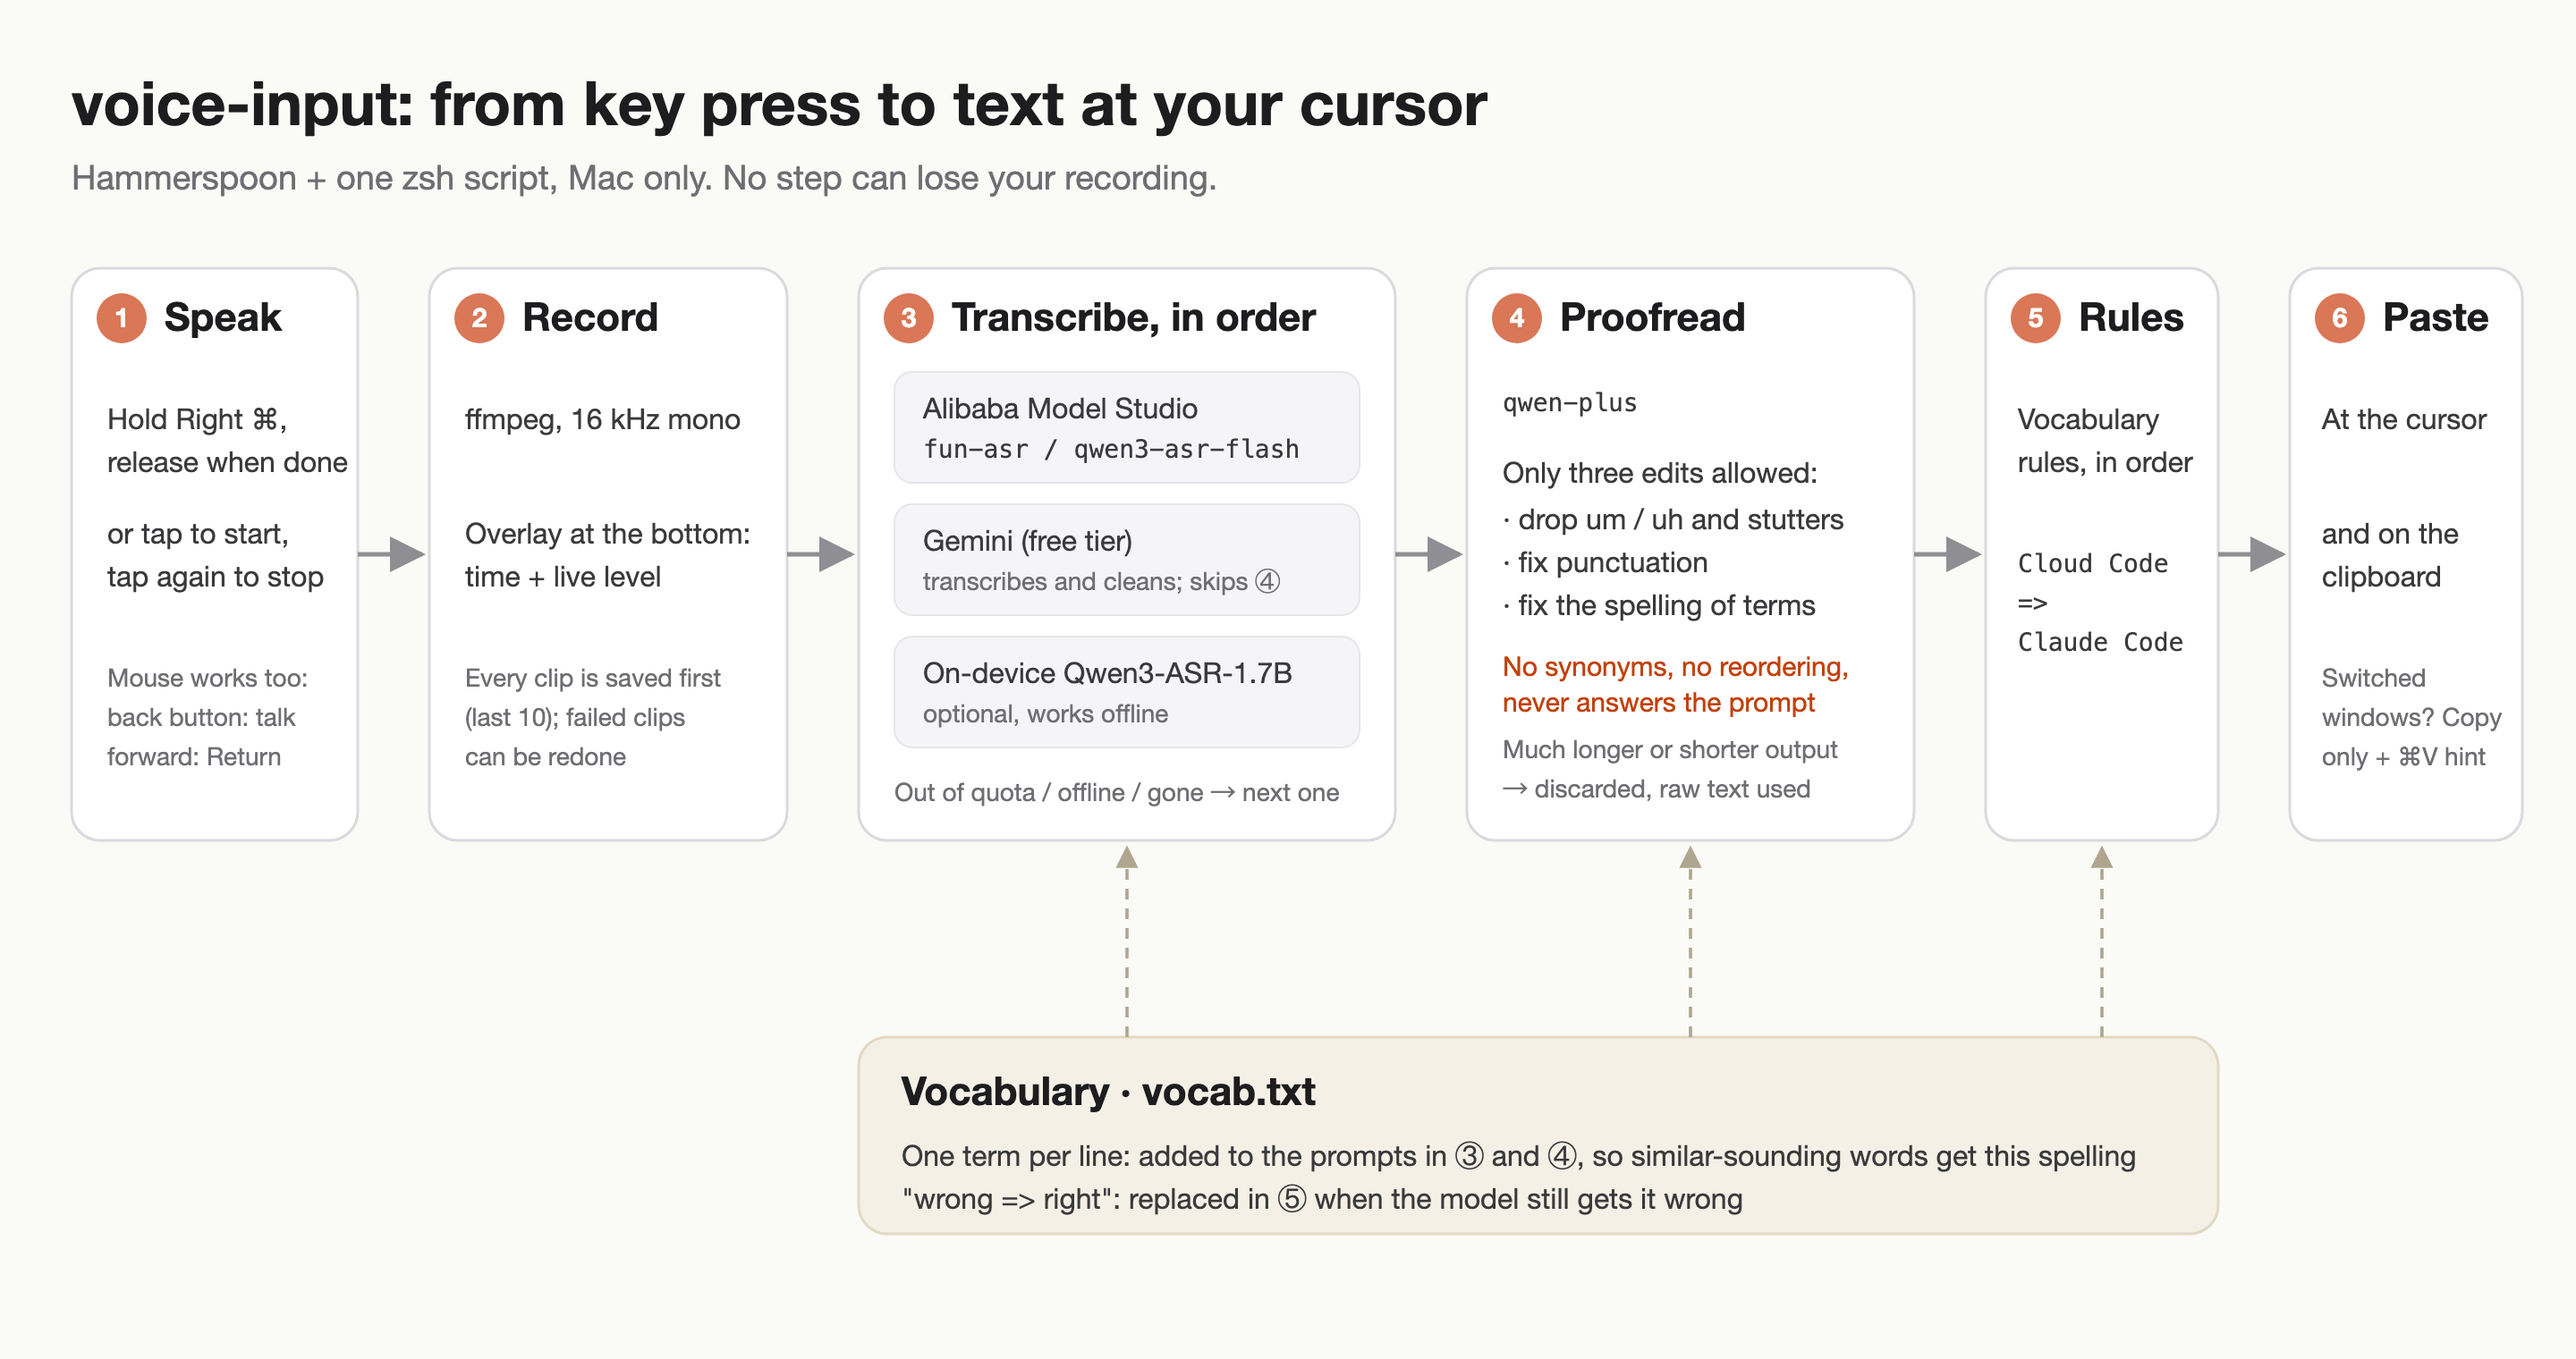
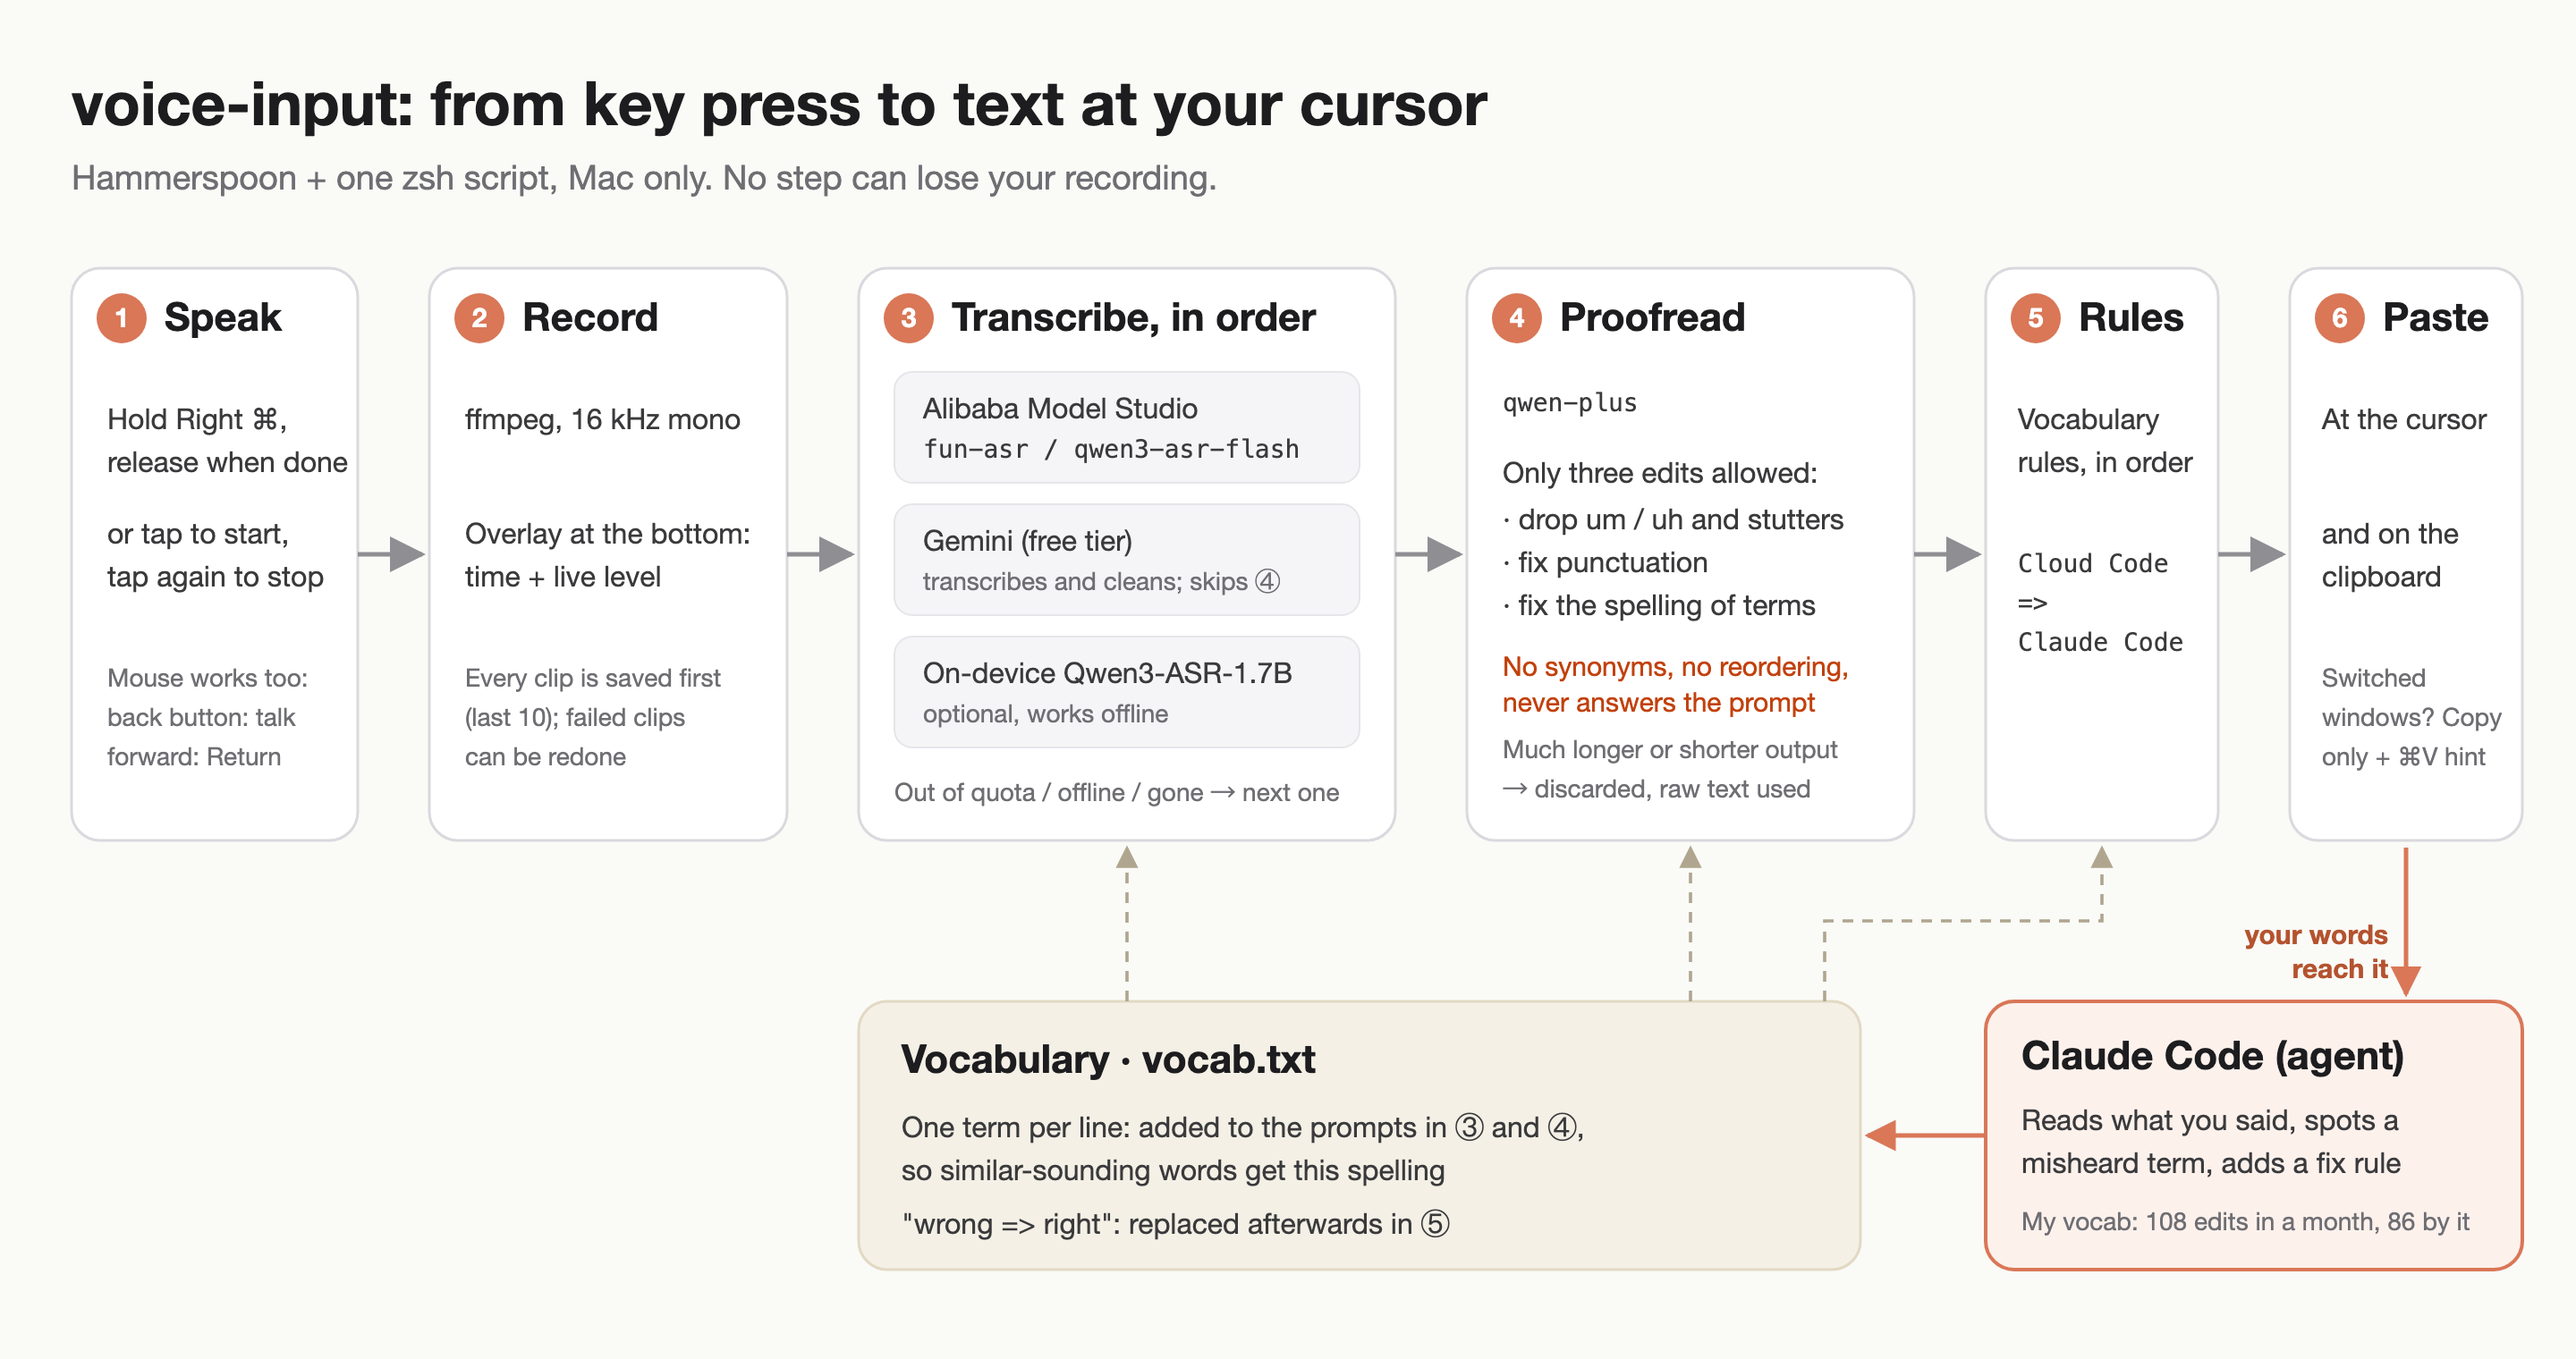
docs: 框架图加上 Claude Code 记词表的闭环；README 和推广稿补怎么配置
框架图原来只把常用词表画成一个静态文件，漏了最有用的一环：说的话进了 Claude Code，它看出听错的词就把
"错误 => 正确"写进词表，下次 ③④⑤ 就用上。三张图（中/英横版、小红书竖版）都加了 Agent 框和橙色回路箭头。
README 中英两版、知乎稿、英文稿补一段可直接放进 CLAUDE.md 的说明。

数字出处：~/dotfiles/voice/vocab.txt 的 git log，2026-09-26 起 108 次提交，其中 86 次带 Co-Authored-By: Claude；
例子 亚子 => yazi 来自提交 1ba8214（dotfiles）。

验证：三张图重新渲染后逐张看过（修了标签出界、竖排文字压线）；数字用 git log | grep -c 复核。

diff --git a/README.md b/README.md
@@ -69,6 +69,20 @@ question you were dictating to the agent, and the good ones are monthly subscrip
 Menu bar mic → **Open panel** to browse history (replay, re-transcribe, copy), see daily
 usage and cost, per-model call stats, and edit keys, model order, microphone and vocabulary.
 
+### Let your coding agent maintain the vocabulary
+
+If you dictate to Claude Code (or another agent), it can usually tell when a term was misheard. Ask it to
+record the fix. Something like this in `CLAUDE.md` works:
+
+```
+## Misheard words in my dictation
+I dictate most messages. When you can tell a term was misheard and are sure of the right one,
+add "wrong => right" to ~/.config/voice-input/vocab.txt and mention it in one line at the end of your reply.
+If the wrong spelling is a common word, include surrounding words so normal speech isn't rewritten. If unsure, ask.
+```
+
+My own vocabulary got 108 edits in its first month; 86 were made by Claude this way.
+
 ## Install
 
 Requires macOS and [Homebrew](https://brew.sh).

diff --git a/README.zh-CN.md b/README.zh-CN.md
@@ -63,6 +63,20 @@
 菜单栏麦克风 → **打开面板**：看转写记录（能重听、重新转写、复制）、每天用量和花费、
 按模型的调用情况，设置 Key、模型顺序、麦克风、常用词。
 
+### 让 Claude Code 帮你记词表
+
+你用语音和 Claude Code（或别的 Agent）说话时，它往往看得出哪个词听错了，可以让它顺手记下来。
+在 `CLAUDE.md` 里加一段：
+
+```
+## 语音输入听错的词：看出来就记进词表
+我用语音输入，消息里常有听错的专有名词。你读懂了意思、并且能确定原词时，
+把「错误 => 正确」加进 ~/.config/voice-input/vocab.txt，回复末尾用一行说加了什么。
+错误写法是常用词就带上前后文，免得别处的正常话被改坏；猜不准就先问我。
+```
+
+我自己的词表第一个月改了 108 次，86 次是 Claude 这样提交的。
+
 ## 安装
 
 需要 macOS、[Homebrew](https://brew.sh)。

diff --git a/docs/promo/english.md b/docs/promo/english.md
@@ -100,5 +100,7 @@ I talk to Claude Code most of the day, so I built a dictation tool around it:
 - Saying just "compact" gives `/compact`; saying just "continue" gives `continue`.
 - With the mouse option on: back button to talk, forward button for Return. You can lean back and run a whole session without the keyboard.
 
+- The vocabulary maintains itself: one line in my CLAUDE.md asks Claude to add a `wrong => right` rule whenever it can tell a term was misheard. My vocab file got 108 edits in a month, 86 of them by Claude.
+
 A month in: 1872 clips, about 13 hours of audio, under $2 at list price.
 Mac + Hammerspoon, MIT: https://github.com/siyuanseever/voice-input
